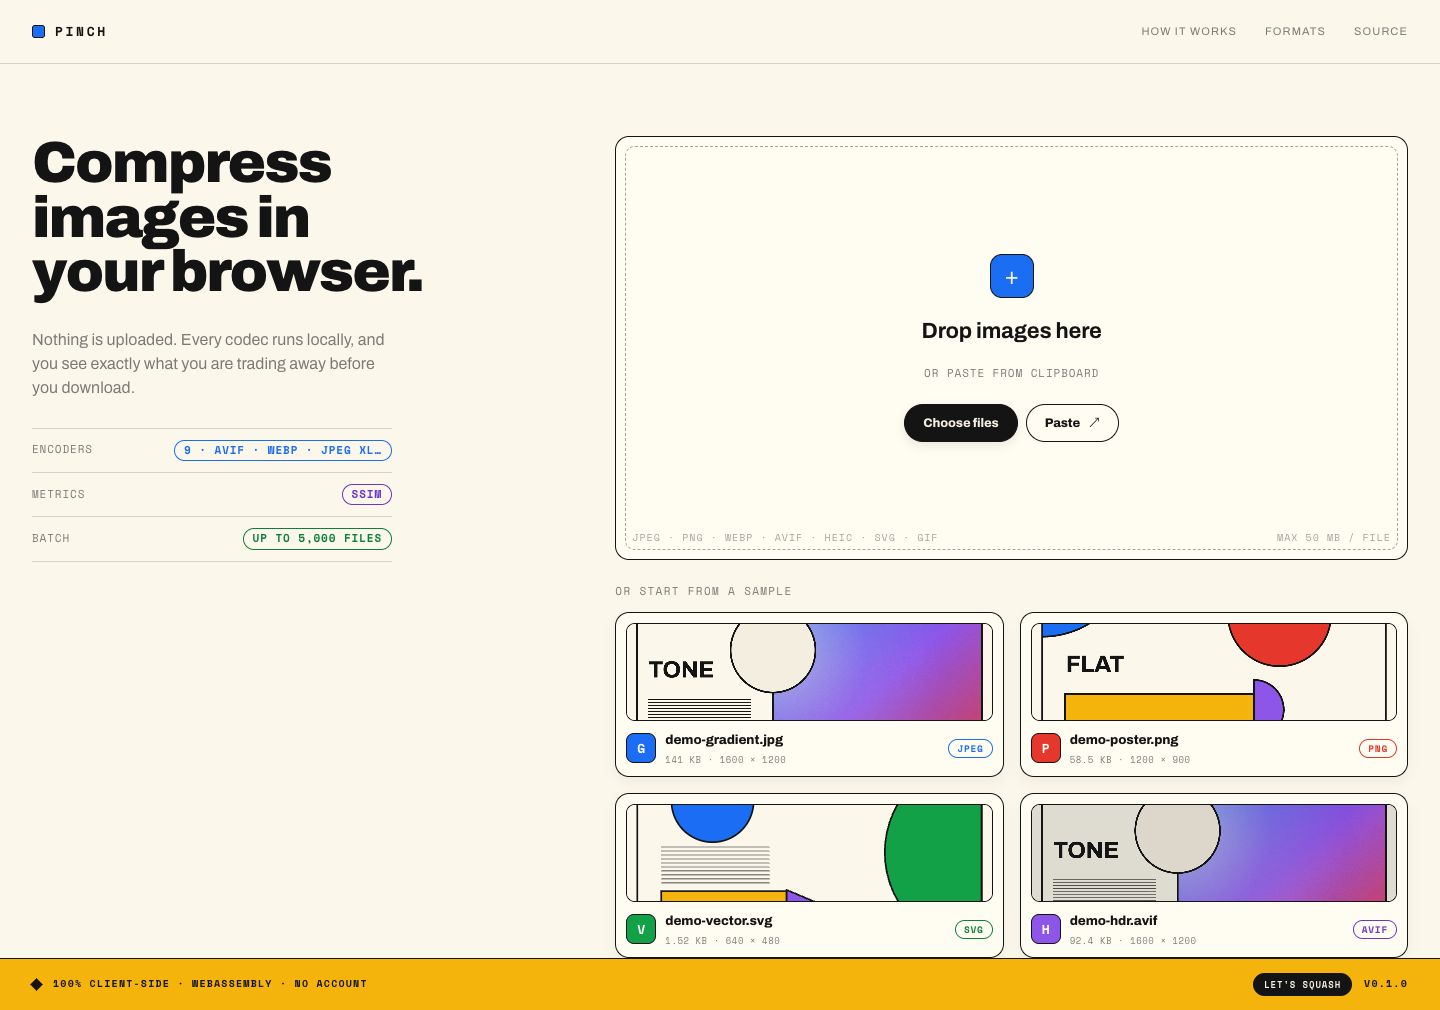
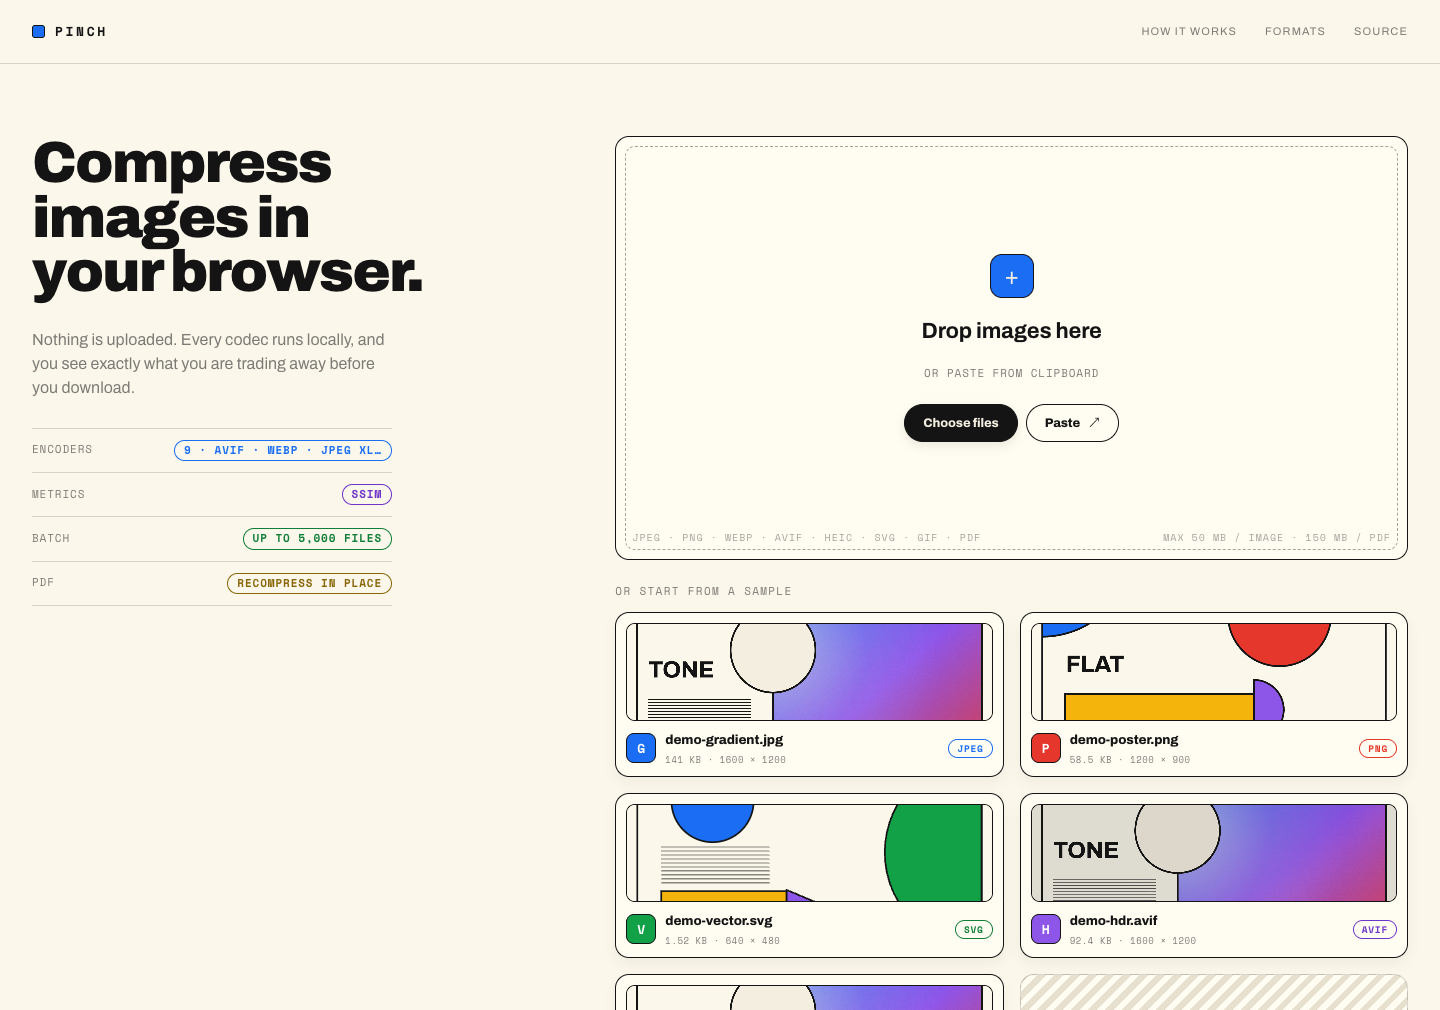
docs: document PDF compression (#22)
PDF compression shipped across three PRs and every user-facing surface still
described an image-only app. README, the FAQ, browser support, the macOS guide
and index.html had zero mentions of it between them; only docs/architecture.md,
written alongside the preview, said anything.

The app contradicted itself about it too. The home drop zone advertised
"MAX 50 MB / IMAGE · 150 MB / PDF" in one corner while the format list two
inches away read "JPEG · PNG · WEBP · AVIF · HEIC · SVG · GIF" — so the only
place PDF appeared was a size limit for a format the app said it did not take.
The settings screen named "Formats" did not list it either, and the queue's
empty state omitted it despite accepting a PDF drop.

Docs: a Features bullet and a comparison-table row in the README, plus
limitations that say what a PDF actually gains — 150 MB rather than 50, and
that only embedded raster images shrink. Four FAQ entries: what Pinch does to a
PDF, why one barely shrank (every skip reason in plain language), why encrypted
and signed documents are refused rather than quietly broken, and what the page
preview is and is not showing. browser-support.md gains two rows and the
reasoning behind loading pdf.js from its legacy build. macos.md now mentions the
PDF file association.

Copy: the Formats section lists .pdf with a note that it opens on its own
screen; the home format list and capability rows include it; the queue's empty
[…]

Changed region(s): [[0.0, 0.9515, 1.0, 1.0], [0.1562, 0.5525, 0.2812, 0.5832], [0.9062, 0.5218, 0.9375, 0.5525]]

diff --git a/index.html b/index.html
@@ -8,7 +8,7 @@
     <link rel="icon" href="/favicon.ico" sizes="32x32" />
     <link rel="apple-touch-icon" href="/icons/icon-192.png" />
     <title>Pinch — compress images in your browser</title>
-    <meta name="description" content="Pinch compresses images entirely in your browser: AVIF, JPEG XL, WebP, MozJPEG and more, with a reveal compare, SSIM verdicts and batch export. Nothing is uploaded." />
+    <meta name="description" content="Pinch compresses images and PDFs entirely in your browser: AVIF, JPEG XL, WebP, MozJPEG and more, with a reveal compare, SSIM verdicts and batch export. Nothing is uploaded." />
 
     <!--
       Social cards. `og:image` is generated by `scripts/generate-assets.mjs`
@@ -19,14 +19,14 @@
     <meta property="og:site_name" content="Pinch" />
     <meta property="og:url" content="https://pinch.rama.app" />
     <meta property="og:title" content="Pinch — compress images in your browser" />
-    <meta property="og:description" content="AVIF, JPEG XL, WebP, MozJPEG and more, running locally as WebAssembly. Compare side by side, check the SSIM verdict, batch a folder. Nothing is uploaded." />
+    <meta property="og:description" content="AVIF, JPEG XL, WebP, MozJPEG and more, running locally as WebAssembly. Compare side by side, check the SSIM verdict, batch a folder, shrink a PDF. Nothing is uploaded." />
     <meta property="og:image" content="https://pinch.rama.app/og.png" vite-ignore />
     <meta property="og:image:width" content="1200" />
     <meta property="og:image:height" content="630" />
     <meta property="og:image:alt" content="Pinch — compress images in your browser. Nothing is uploaded." />
     <meta name="twitter:card" content="summary_large_image" />
     <meta name="twitter:title" content="Pinch — compress images in your browser" />
-    <meta name="twitter:description" content="AVIF, JPEG XL, WebP, MozJPEG and more, running locally as WebAssembly. Compare side by side, check the SSIM verdict, batch a folder. Nothing is uploaded." />
+    <meta name="twitter:description" content="AVIF, JPEG XL, WebP, MozJPEG and more, running locally as WebAssembly. Compare side by side, check the SSIM verdict, batch a folder, shrink a PDF. Nothing is uploaded." />
     <meta name="twitter:image" content="https://pinch.rama.app/og.png" vite-ignore />
   </head>
   <body>

diff --git a/src/lib/settings/EncodersSection.svelte b/src/lib/settings/EncodersSection.svelte
@@ -10,6 +10,7 @@
   import {
     EXTENSION_BY_MIME,
     isWorkerDecodableMimeType,
+    PDF_MIME_TYPE,
     type ImageMimeType,
   } from '../contracts';
   import { SELECTABLE_ENCODER_IDS } from './settings.svelte';
@@ -59,7 +60,8 @@
   <p class="intro">
     Everything Pinch can open. The browser decodes what it can natively; the wasm
     decoders cover the rest. HEIC and HEIF open fine but can only be encoded to
-    another format, which is why they are not in the encoder list above.
+    another format, which is why they are not in the encoder list above. PDF is
+    its own screen rather than an encoder target — see the note under it.
   </p>
 
   <div class="rows">
@@ -84,6 +86,23 @@
         <p class="note mono">{INPUT_NOTES[mime]}</p>
       {/if}
     {/each}
+
+    <div class="row">
+      <div class="identity">
+        <div class="labels">
+          <span class="label ext-label">.pdf</span>
+          <span class="ext mono">{PDF_MIME_TYPE}</span>
+        </div>
+      </div>
+      <div class="chips">
+        <Chip tone="ink">Own screen</Chip>
+        <Chip tone="muted">Recompresses embedded images</Chip>
+      </div>
+    </div>
+    <p class="note mono">
+      Opens on the PDF screen, not in the editor. Embedded JPEG and Flate images are
+      recompressed in place; text, vectors and the page count are untouched.
+    </p>
   </div>
 </div>
 

diff --git a/src/lib/home/HomeView.svelte b/src/lib/home/HomeView.svelte
@@ -354,6 +354,10 @@
             <span class="spec-label">Batch</span>
             <Chip tone="green">Up to 5,000 files</Chip>
           </div>
+          <div class="spec-row">
+            <span class="spec-label">PDF</span>
+            <Chip tone="yellow">Recompress in place</Chip>
+          </div>
         </div>
       {/if}
     </div>
@@ -410,7 +414,7 @@
         </div>
 
         {#if !isCompact}
-          <div class="corner corner-left" aria-hidden="true">JPEG · PNG · WEBP · AVIF · HEIC · SVG · GIF</div>
+          <div class="corner corner-left" aria-hidden="true">JPEG · PNG · WEBP · AVIF · HEIC · SVG · GIF · PDF</div>
           <div class="corner corner-right" aria-hidden="true">MAX 50 MB / IMAGE · 150 MB / PDF</div>
         {/if}
       </div>

diff --git a/src/lib/batch/QueueView.svelte b/src/lib/batch/QueueView.svelte
@@ -401,8 +401,8 @@
             Choose files
           </PillButton>
         </div>
-        <span class="empty-corner left mono-label mono-label--xs">JPEG · PNG · WEBP · AVIF · SVG · GIF</span>
-        <span class="empty-corner right mono-label mono-label--xs">MAX 50 MB / FILE</span>
+        <span class="empty-corner left mono-label mono-label--xs">JPEG · PNG · WEBP · AVIF · SVG · GIF · PDF</span>
+        <span class="empty-corner right mono-label mono-label--xs">MAX 50 MB / IMAGE · 150 MB / PDF</span>
       </div>
     </div>
   {:else}

diff --git a/vite.config.ts b/vite.config.ts
@@ -284,7 +284,7 @@ export default defineConfig({
         name: 'Pinch',
         short_name: 'Pinch',
         description:
-          'Client-side image compression: AVIF, JPEG XL, WebP and more. Compare, batch, share presets. Nothing leaves your device.',
+          'Client-side image and PDF compression: AVIF, JPEG XL, WebP and more. Compare, batch, share presets. Nothing leaves your device.',
         lang: 'en',
         start_url: '/',
         id: '/',

diff --git a/src/lib/settings/AboutSection.svelte b/src/lib/settings/AboutSection.svelte
@@ -24,7 +24,7 @@
     <div class="privacy-card">
       <BrandDot accent="blue" size={13} />
       <p>
-        Images never leave this device. Encoding runs in WebAssembly inside your browser, there is
+        Nothing leaves this device. Encoding runs in WebAssembly inside your browser, there is
         no server to send them to, and the app works with the network switched off.
       </p>
     </div>

diff --git a/docs/FAQ.md b/docs/FAQ.md
@@ -8,7 +8,9 @@ no account, and no analytics.
 
 You can check this the direct way: open your browser's network panel, compress something,
 and watch. The only requests are for the app's own code and the codec `.wasm` chunks,
-each fetched once and then cached. Or turn the network off entirely — Pinch is a PWA
+each fetched once and then cached. Opening a PDF adds one more set of the same kind: the
+pdf.js renderer, its worker and its data files, all served from this origin and cached
+after the first document. Nothing goes out. Or turn the network off entirely — Pinch is a PWA
 that precaches its shell and runtime-caches codecs, so after one visit it works offline.
 Nothing to upload also means nothing to leak.
 
@@ -142,6 +144,82 @@ Usually one of:
 The Original side of the compare is always available for download unchanged, so a bad
 trade costs you nothing.
 
+## What does Pinch actually do to a PDF?
+
+It rewrites the raster images inside it, and nothing else. Pinch opens the document,
+finds every embedded image, re-encodes the ones it can safely decode as JPEG at the
+quality you picked — optionally downsampling anything drawn above a target DPI — and
+writes the file back with those image streams swapped.
+
+Text, vectors, fonts, page structure, the page count and the accessibility tree are
+untouched. That is the whole design: a PDF is never decoded and rebuilt, it is edited in
+place. It also means the honest unit of work is the *image*, not the document, which is
+why the screen gives you a row per embedded image instead of one "42% smaller" and no
+explanation of where the other 58% went.
+
+Two settings beyond quality and DPI are on by default and are pure structural wins:
+**dedupe identical images** points byte-identical streams at a single object, and **strip
+metadata** drops the XMP metadata stream and page thumbnails. Neither touches a pixel.
+
+## Why did my PDF barely shrink?
+
+Because there was not much image in it. A text-and-vector document — an invoice, a
+contract, a LaTeX paper — is mostly content Pinch deliberately does not rewrite, so
+there is nothing to win. If the document has no embedded images at all, the table says
+so, and stripping metadata is the only saving on offer.
+
+The other common case is a document whose images Pinch will not touch. Every skipped
+image says why in its own row:
+
+- **Too small** — under 4 KB. A decode plus an encode costs more than it could save.
+- **No decoder** — JPEG 2000, JBIG2, CCITT fax, LZW, RunLength, or a chained filter.
+  Pinch ships decoders for `DCTDecode` and `FlateDecode` and refuses to guess at the
+  rest. Also shown for Flate images when you switch **Flate → JPEG** off, which removes
+  the only decoder path left.
+- **CMYK** — print colour. Adobe writes these inverted behind an APP14 marker, and
+  getting that wrong yields a colour negative rather than a slightly soft image.
+- **Colour space** — an exotic colour space, non-8-bit samples, or a non-identity
+  `/Decode` array such as the inverted-grayscale scans some scanners emit.
+- **Mask** — a stencil or colour-key mask. A shape, not a picture.
+- **No gain** — it was recompressed, the result was not smaller, so the original was
+  kept. This one can only appear after a run, never in the plan.
+- **Failed** — the decode or encode threw. The original stayed.
+
+The first five are computed before anything is decoded, so the plan column tells you
+what will happen while you are still moving the quality slider.
+
+## Why won't it open my encrypted or signed PDF?
+
+Because the honest answers are "I can't" and "I shouldn't".
+
+An **encrypted** PDF cannot be read without the password, and rewriting a file Pinch
+cannot decrypt produces a broken one. Remove the password first.
+
+A **digitally signed** PDF is refused on purpose. Any rewrite invalidates the signature —
+that is what a signature is for. Pinch could strip the images and hand you back a
+document whose signature no longer verifies, which is worse than doing nothing, so it
+declines and says why.
+
+An **unreadable** file is one pdf-lib could not parse at all: not a PDF, or damaged.
+
+In all three cases you get a sentence and a way out, never a cheerful "0% saved" over a
+file that was never touched.
+
+## Will the pages still look right?
+
+That is a question about pixels, and bytes cannot answer it — so the PDF screen renders
+the pages. After a run you get the original page and the compressed one under the same
+draggable divider the image editor uses, at one shared scale, and you can page through
+the document.
+
+Worth knowing what you are looking at: only image pixels changed, so most of a rendered
+page is identical on both sides and is there as context. The divider is for the
+photographs.
+
+One caveat the preview will show you: transparency in an embedded image is flattened.
+Baseline JPEG carries no alpha channel, so a soft mask is folded in and dropped on
+replace.
+
 ## What is the relationship to Squoosh?
 
 Squoosh is the reason Pinch exists. It proved the whole idea — codecs in WebAssembly,
@@ -190,7 +268,10 @@ mode. If you want to script image compression, use the underlying libraries dire
 ## Can I use it offline?
 
 Yes, once you have loaded it once. The app shell is precached by the service worker;
-each codec's wasm is cached the first time you use that codec. Install it (Chromium's
+each codec's wasm is cached the first time you use that codec. The pdf.js renderer behind
+the PDF preview works the same way — it is deliberately kept out of the precached shell,
+because a visitor who never opens a PDF should not pay to download it, and it is cached
+from the first document onward. Install it (Chromium's
 install button, or Add to Home Screen on iOS) and it behaves like a local application.
 
 A new version installs in the background and waits — you get a "Reload" prompt rather
@@ -198,7 +279,10 @@ than a silent swap under a half-finished encode.
 
 ## What are the limits?
 
-- **50 MB per file.** Larger files are skipped and named in the message.
+- **50 MB per image, 150 MB per PDF.** Larger files are skipped and named in the
+  message. PDFs get the higher ceiling because the work is sequential and streamed —
+  the real limit is peak memory during one image's decode, not the file's size.
+- **4 KB per embedded image** before a PDF image is worth recompressing at all.
 - **5000 files per drop**, and 16 levels of directory recursion, so a stray
   `node_modules` cannot hang the tab.
 - **8 parallel worker lanes** for batch and matrix runs, or

diff --git a/README.md b/README.md
@@ -5,7 +5,7 @@
 <h1 align="center">Pinch</h1>
 
 <p align="center">
-  Client-side image compression: pick a codec, see what it costs, download the result — nothing is uploaded.
+  Client-side image and PDF compression: pick a codec, see what it costs, download the result — nothing is uploaded.
 </p>
 
 <p align="center">
@@ -24,11 +24,15 @@
   <img src="./docs/media/editor.png" alt="The Pinch editor: the original and a MozJPEG encode under one draggable reveal divider, with size, savings and SSIM readouts" width="900">
 </p>
 
+<p align="center">
+  <img src="./docs/media/pdf.png" alt="The Pinch PDF screen: a two-page report analysed into a per-image table, with page 1 of the original and of the compressed document under the same reveal divider" width="900">
+</p>
+
 <p align="center"><strong>Try it: https://pinch.rama.app</strong></p>
 
 Pinch is a modern, privacy-first alternative to [Squoosh](https://github.com/GoogleChromeLabs/squoosh)
 — same idea, codecs compiled to WebAssembly running in your browser, rebuilt on a
-current stack, with the batch, metrics and comparison features Squoosh doesn't have.
+current stack, with the batch, metrics, comparison and PDF features Squoosh doesn't have.
 
 Every codec runs locally. There is no server, no upload, no account, no analytics, and
 the app works with the network switched off once it has been loaded.
@@ -75,6 +79,12 @@ the app works with the network switched off once it has been loaded.
 - **Presets** — four built-ins plus your own, stored in IndexedDB, exportable as JSON,
   and shareable as a URL (`?p=…`: settings JSON, deflated, base64url-encoded, then
   strictly re-validated on the way in because a shared link is untrusted input).
+- **PDF compression** — drop a PDF and Pinch recompresses the raster images embedded in
+  it, in place. Text, vectors, fonts and the page count are untouched; every embedded
+  image gets a row saying what will happen to it and why, before a byte is decoded. A
+  full-page before/after sits under the same reveal divider as the editor, rasterised
+  with [pdf.js](https://github.com/mozilla/pdf.js). Encrypted and digitally signed
+  documents are refused rather than quietly broken.
 - **PWA** — installable, offline-capable, an OS share target and a registered file
   handler, with an explicit "Reload" prompt when a new version is waiting.
 
@@ -92,6 +102,7 @@ Pinch does not.
 | Auto-suggest quality | Yes — binary search to an SSIM target | No |
 | Codec matrix sweep | Yes — 5 encoders × 4 steps in one table | No |
 | HEIC/HEIF input | Yes (libheif) | No |
+| PDF compression | Yes — recompresses embedded images, with a page before/after | No |
 | HDR detection | Yes — PQ, HLG, gain map; labelled, tone-mapped to SDR | No |
 | Multi-file tabs | Yes | No |
 | Shareable presets | Yes — saved presets, JSON export, `?p=` links | No (settings live in the URL hash, not as named presets) |
@@ -132,7 +143,7 @@ it is just slower. Deploying your own instance: see [docs/deploy.md](./docs/depl
 
 Pinch also ships as a native macOS app: the same web build, running in a Tauri 2 window
 instead of a browser tab, with a native save dialog and Finder file associations for
-opening images directly. Grab the `.dmg` from the
+opening images and PDFs directly. Grab the `.dmg` from the
 [Releases page](https://github.com/RamaHerbin/squish/releases), or build it yourself with
 `npm run tauri:build`. See [docs/macos.md](./docs/macos.md) for the full walkthrough,
 including what to do about the unsigned-app warning on first launch.
@@ -147,8 +158,10 @@ Five layers, each of which only depends on the ones above it:
   chain and runtime capability probes.
 - `src/lib/state/` — the job engine: work diffing, the four-step pipeline, hierarchical
   aborts and a five-entry result cache.
-- `src/lib/{metrics,matrix,batch,presets,edit,compare,options,settings}/` — features,
+- `src/lib/{metrics,matrix,batch,presets,edit,compare,options,settings,pdf}/` — features,
   each self-contained and each injected with what it needs rather than importing across.
+  `pdf/` is the odd one out: it never decodes a whole document, it opens a PDF, swaps the
+  image streams inside it and writes it back.
 - `src/App.svelte` — the composition root: router, tab strip, start-up handshake and
   the dependency injection that keeps state and codecs from importing each other.
 
@@ -179,8 +192,13 @@ Feature-by-feature matrix, and what was actually tested versus inferred:
 - **SSIM, not butteraugli.** Single-scale SSIM on the luma plane — cheap enough to run
   on every slider commit and on 20 matrix cells. See the
   [FAQ](./docs/FAQ.md#why-ssim-and-not-butteraugli).
-- **50 MB per file, 5000 files per drop.** Oversized files are named in the message that
-  follows the drop; the file-count cap simply stops collecting.
+- **50 MB per image, 150 MB per PDF, 5000 files per drop.** Oversized files are named in
+  the message that follows the drop; the file-count cap simply stops collecting.
+- **A PDF only shrinks where it holds photographs.** Recompression rewrites embedded
+  `DCTDecode` and `FlateDecode` images and nothing else, so a text-and-vector document
+  has almost nothing to win. JPEG 2000, JBIG2, CCITT, CMYK and non-8-bit images are
+  reported and skipped rather than guessed at, and transparency in an embedded image is
+  flattened because baseline JPEG carries no alpha.
 - **English only.** No i18n layer.
 
 ## Contributing
@@ -197,4 +215,7 @@ See [CONTRIBUTING.md](./CONTRIBUTING.md) for the details, and
 MIT © 2026 Rama Herbin. See [LICENSE](./LICENSE).
 
 Codecs are third-party: the `@jsquash/*` builds are Apache-2.0, and HEIC decoding uses
-`libheif-js` (LGPL-3.0), loaded as a separate dynamically-imported chunk.
+`libheif-js` (LGPL-3.0), loaded as a separate dynamically-imported chunk. The PDF side
+uses `@cantoo/pdf-lib` (MIT) to rewrite documents and `pdfjs-dist` (Apache-2.0) to
+rasterise a page for the preview. Full attributions, including the wasm decoders pdf.js
+bundles, are in [THIRD_PARTY_NOTICES.md](./THIRD_PARTY_NOTICES.md).

diff --git a/docs/browser-support.md b/docs/browser-support.md
@@ -31,6 +31,8 @@ to offer, with one exception noted below; it asks the platform.
 | SVG input and vector-quality resize | Verified | Expected | Expected | — (requires a document; not available in a worker) |
 | HDR detection and labelling | Verified | Expected | Expected | — (a byte scan, no platform API involved) |
 | SSIM metrics worker | Verified | Expected | Expected | — (plain arithmetic in a module worker) |
+| PDF compression (analyse, recompress, download) | Verified | Expected | Expected | — (pdf-lib plus the same codec worker; no platform API involved) |
+| PDF page before/after preview (pdf.js) | Verified | Expected | Expected on 16+ | The run still completes; the preview reports that it could not render |
 | Batch queue and ZIP export | Verified | Expected | Expected | — |
 | Folder drop (`webkitGetAsEntry` recursion) | Verified | Expected | Expected | Falls back to the flat `DataTransfer.files` list |
 | OPFS staging of batch results | Verified | Expected | Expected on recent versions | Results stay in memory; large batches use more RAM |
@@ -133,6 +135,21 @@ reports which mode it is in (`stageKind: 'opfs' | 'memory'`).
 - **File handlers** (`launchQueue`) are desktop-Chromium-only, and only for an installed
   app. The consumer is raced against a 300 ms timeout, because per spec it may never
   fire on a normal navigation.
+
+### The PDF preview and Safari
+
+Rasterising a page needs pdf.js, and pdf.js 6's default build calls
+`Promise.withResolvers`, which Safari only shipped in 17.4. Pinch therefore loads pdf.js
+from its `legacy/` build, which bundles the polyfills upstream considers necessary, so
+Safari 16 and 17.0-17.3 get a working preview rather than a module that throws on
+evaluation. The same choice covers the WKWebView in the macOS app, where
+`minimumSystemVersion` is 12.0.
+
+pdf.js renders in its own worker. If that worker cannot start, pdf.js does not throw — it
+silently falls back to rasterising on the main thread, which would freeze the tab on a
+real document. Pinch checks for that fallback and reports it instead, so a broken preview
+says so rather than hanging. Compression itself does not depend on any of this: the run
+completes and the file downloads even when the preview cannot draw.
 
 ### Storage
 

diff --git a/docs/macos.md b/docs/macos.md
@@ -83,11 +83,14 @@ Pinch compresses images.
 - **Saving.** The web app downloads through the browser's own download UI. The macOS app
   opens a native save panel, and you choose the exact destination and filename yourself;
   nothing lands in a default Downloads folder unless you point it there.
-- **File associations.** Finder can open image files with Pinch directly ("Open With
-  Pinch", drag-and-drop onto the Dock icon, or a second `open -a Pinch photo.png` from the
+- **File associations.** Finder can open files with Pinch directly ("Open With Pinch",
+  drag-and-drop onto the Dock icon, or a second `open -a Pinch photo.png` from the
   command line), and Pinch registers itself as a viewer for the common formats it reads.
-  It does not claim to be your default image opener; that choice stays with Finder or with
-  whichever app you had before.
+  **PDFs are registered too**, as a separate association, and open on the PDF screen
+  rather than in the image editor — including from a cold launch, where the Rust side
+  buffers the path until the front end says it is ready. It does not claim to be your
+  default opener for anything; that choice stays with Finder or with whichever app you
+  had before.
 - **HEIC decoding.** iPhone photos already open in the web app for anyone on Safari,
   because Safari decodes HEIC natively and only falls back to the bundled libheif
   WebAssembly decoder elsewhere. The macOS app uses that same native-decode-first path
